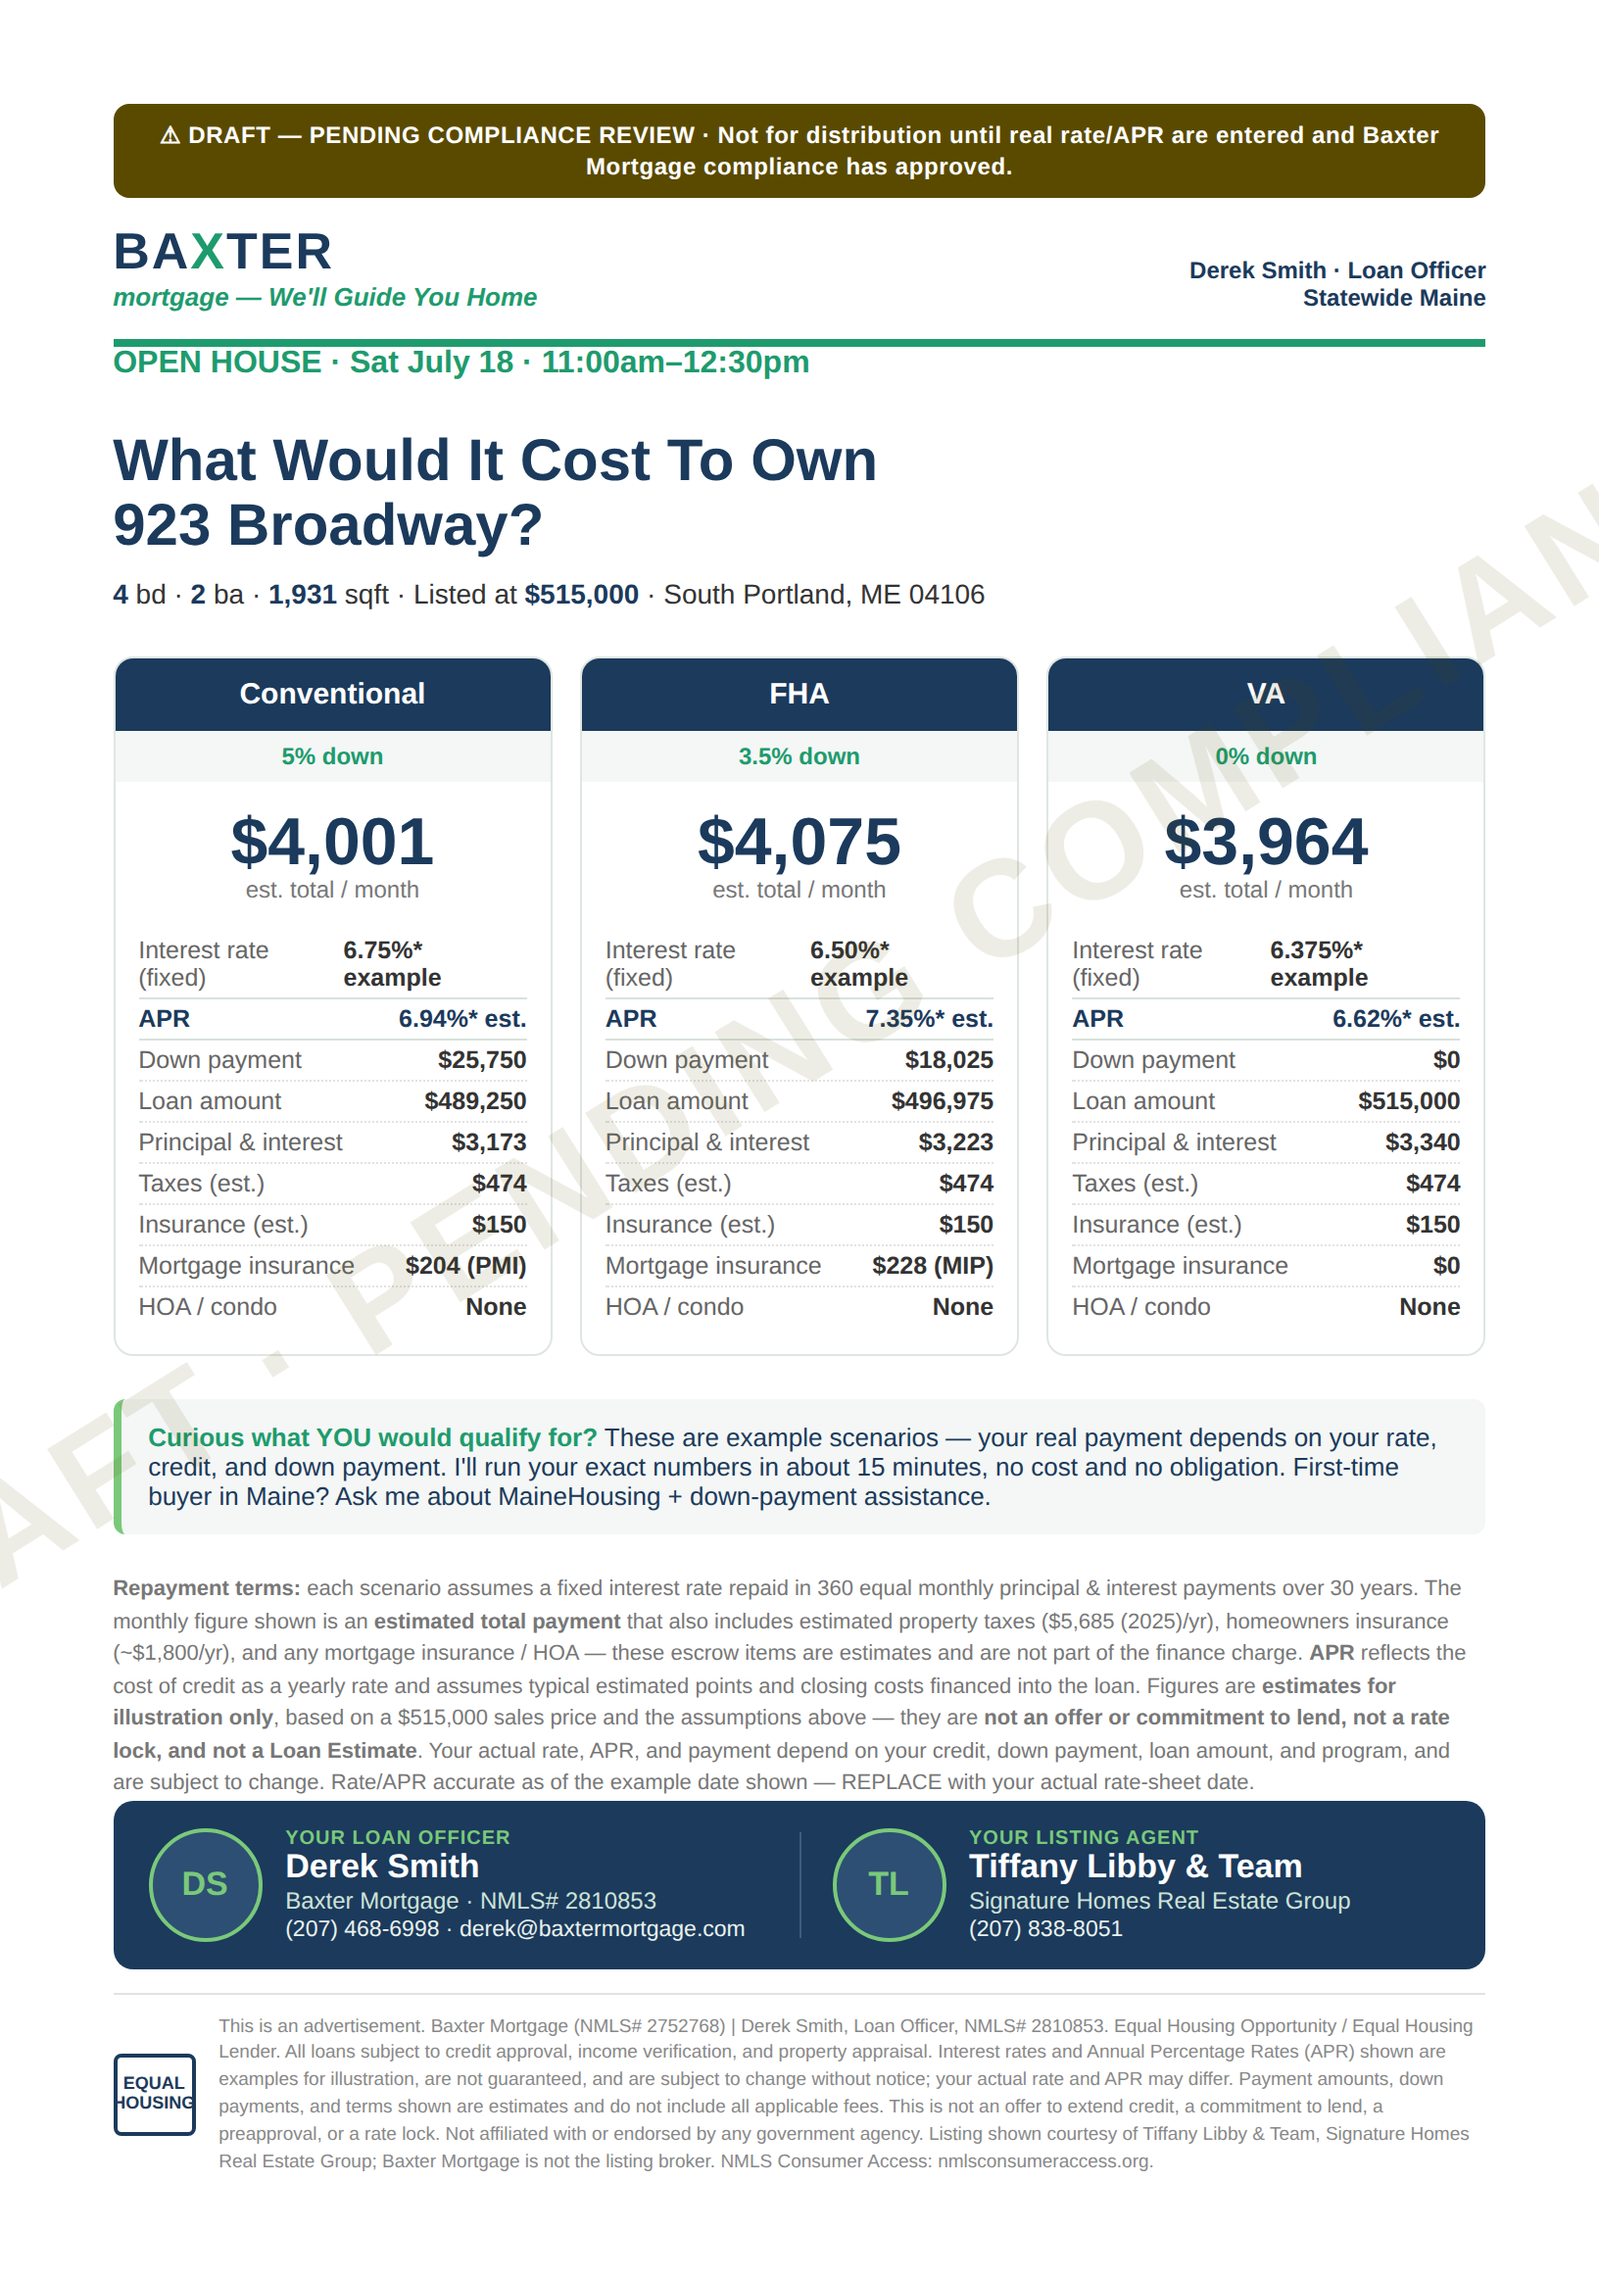
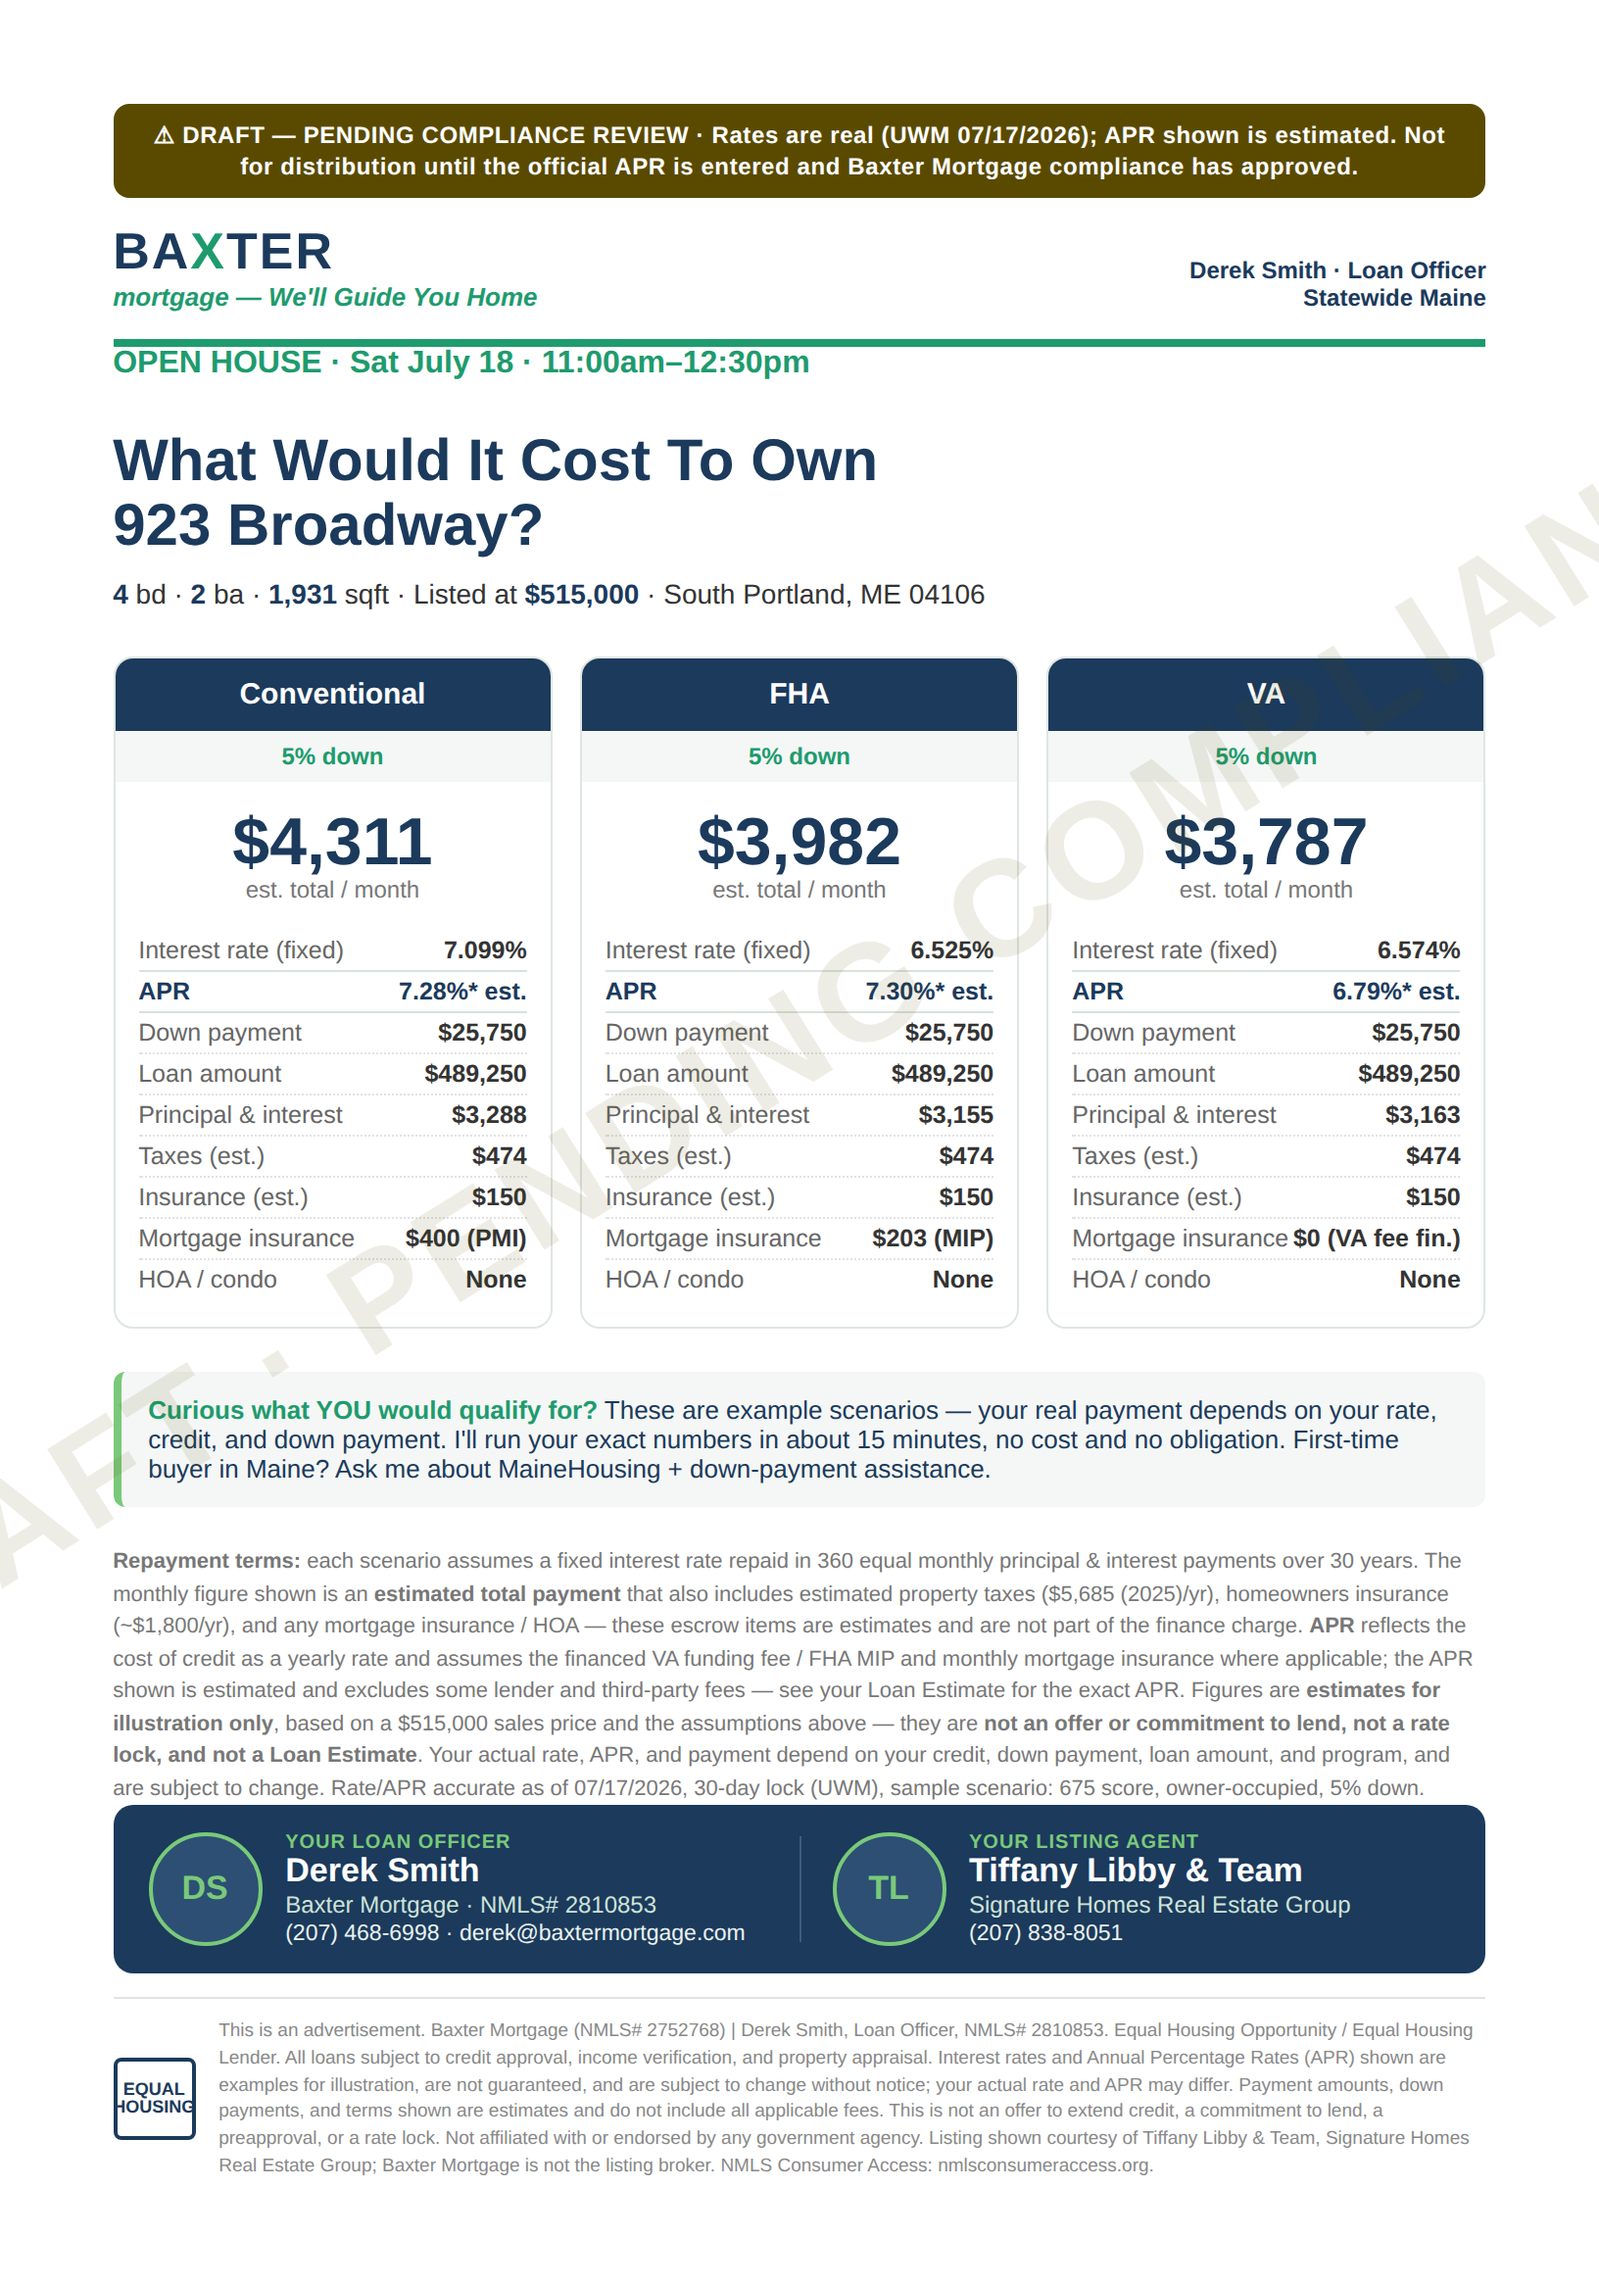
Update 923 Broadway payment flyer with real UWM rates (07/17/2026)
Replaced example rates with the actual UWM Easy Qualifier pricing (30-day lock,
89,250 loan / 5% down, 675 score): VA 6.574%, FHA 6.525%, Conventional
7.099%, with real P&I + MI; taxes + insurance added for the total monthly.
APR still shown as an estimate, so the DRAFT/compliance gate stays on until the
official APR (from the Loan Estimate) is entered and compliance approves.

Claude-Session: https://claude.ai/code/session_01NeTePcG8Z61QQmMSpMTEpt

diff --git a/lead-generation/output/923-broadway-04106-payment-flyer.html b/lead-generation/output/923-broadway-04106-payment-flyer.html
@@ -80,7 +80,7 @@
   .rows .apr .v{color:var(--navy);font-weight:800}
   .rows .apr .k{color:var(--navy);font-weight:700}
   /* Compliance gate: DRAFT banner + watermark stay until compliance approves.
-     Claude blanks <div class="draftbar">⚠ DRAFT — PENDING COMPLIANCE REVIEW · Not for distribution until real rate/APR are entered and Baxter Mortgage compliance has approved.</div> and <div class="watermark"><span>Draft · Pending Compliance</span></div> only after a real
+     Claude blanks <div class="draftbar">⚠ DRAFT — PENDING COMPLIANCE REVIEW · Rates are real (UWM 07/17/2026); APR shown is estimated. Not for distribution until the official APR is entered and Baxter Mortgage compliance has approved.</div> and <div class="watermark"><span>Draft · Pending Compliance</span></div> only after a real
      rate/APR is entered AND Baxter compliance has signed off. */
   .draftbar{background:#5a4a00;color:#fff;font-size:12px;font-weight:700;
     text-align:center;padding:8px 12px;border-radius:8px;margin-bottom:12px;
@@ -95,7 +95,7 @@
 <body>
 <div class="watermark"><span>Draft · Pending Compliance</span></div>
 <div class="page">
-  <div class="draftbar">⚠ DRAFT — PENDING COMPLIANCE REVIEW · Not for distribution until real rate/APR are entered and Baxter Mortgage compliance has approved.</div>
+  <div class="draftbar">⚠ DRAFT — PENDING COMPLIANCE REVIEW · Rates are real (UWM 07/17/2026); APR shown is estimated. Not for distribution until the official APR is entered and Baxter Mortgage compliance has approved.</div>
   <header>
     <div class="brand">BA<span class="x">X</span>TER<small>mortgage — We'll Guide You Home</small></div>
     <div class="tagline">Derek Smith · Loan Officer<br>Statewide Maine</div>
@@ -113,50 +113,50 @@
     <div class="card">
       <h2>Conventional</h2>
       <div class="down">5% down</div>
-      <div class="hero"><div class="amt">$4,001</div><div class="per">est. total / month</div></div>
+      <div class="hero"><div class="amt">$4,311</div><div class="per">est. total / month</div></div>
       <div class="rows">
-        <div class="rate"><span class="k">Interest rate (fixed)</span><span class="v">6.75%* example</span></div>
-        <div class="apr"><span class="k">APR</span><span class="v">6.94%* est.</span></div>
+        <div class="rate"><span class="k">Interest rate (fixed)</span><span class="v">7.099%</span></div>
+        <div class="apr"><span class="k">APR</span><span class="v">7.28%* est.</span></div>
         <div><span class="k">Down payment</span><span class="v">$25,750</span></div>
         <div><span class="k">Loan amount</span><span class="v">$489,250</span></div>
-        <div><span class="k">Principal & interest</span><span class="v">$3,173</span></div>
+        <div><span class="k">Principal & interest</span><span class="v">$3,288</span></div>
         <div><span class="k">Taxes (est.)</span><span class="v">$474</span></div>
         <div><span class="k">Insurance (est.)</span><span class="v">$150</span></div>
-        <div><span class="k">Mortgage insurance</span><span class="v">$204 (PMI)</span></div>
+        <div><span class="k">Mortgage insurance</span><span class="v">$400 (PMI)</span></div>
         <div><span class="k">HOA / condo</span><span class="v">None</span></div>
       </div>
     </div>
     <!-- SCENARIO 2 -->
     <div class="card">
       <h2>FHA</h2>
-      <div class="down">3.5% down</div>
-      <div class="hero"><div class="amt">$4,075</div><div class="per">est. total / month</div></div>
+      <div class="down">5% down</div>
+      <div class="hero"><div class="amt">$3,982</div><div class="per">est. total / month</div></div>
       <div class="rows">
-        <div class="rate"><span class="k">Interest rate (fixed)</span><span class="v">6.50%* example</span></div>
-        <div class="apr"><span class="k">APR</span><span class="v">7.35%* est.</span></div>
-        <div><span class="k">Down payment</span><span class="v">$18,025</span></div>
-        <div><span class="k">Loan amount</span><span class="v">$496,975</span></div>
-        <div><span class="k">Principal & interest</span><span class="v">$3,223</span></div>
+        <div class="rate"><span class="k">Interest rate (fixed)</span><span class="v">6.525%</span></div>
+        <div class="apr"><span class="k">APR</span><span class="v">7.30%* est.</span></div>
+        <div><span class="k">Down payment</span><span class="v">$25,750</span></div>
+        <div><span class="k">Loan amount</span><span class="v">$489,250</span></div>
+        <div><span class="k">Principal & interest</span><span class="v">$3,155</span></div>
         <div><span class="k">Taxes (est.)</span><span class="v">$474</span></div>
         <div><span class="k">Insurance (est.)</span><span class="v">$150</span></div>
-        <div><span class="k">Mortgage insurance</span><span class="v">$228 (MIP)</span></div>
+        <div><span class="k">Mortgage insurance</span><span class="v">$203 (MIP)</span></div>
         <div><span class="k">HOA / condo</span><span class="v">None</span></div>
       </div>
     </div>
     <!-- SCENARIO 3 -->
     <div class="card">
       <h2>VA</h2>
-      <div class="down">0% down</div>
-      <div class="hero"><div class="amt">$3,964</div><div class="per">est. total / month</div></div>
+      <div class="down">5% down</div>
+      <div class="hero"><div class="amt">$3,787</div><div class="per">est. total / month</div></div>
       <div class="rows">
-        <div class="rate"><span class="k">Interest rate (fixed)</span><span class="v">6.375%* example</span></div>
-        <div class="apr"><span class="k">APR</span><span class="v">6.62%* est.</span></div>
-        <div><span class="k">Down payment</span><span class="v">$0</span></div>
-        <div><span class="k">Loan amount</span><span class="v">$515,000</span></div>
-        <div><span class="k">Principal & interest</span><span class="v">$3,340</span></div>
+        <div class="rate"><span class="k">Interest rate (fixed)</span><span class="v">6.574%</span></div>
+        <div class="apr"><span class="k">APR</span><span class="v">6.79%* est.</span></div>
+        <div><span class="k">Down payment</span><span class="v">$25,750</span></div>
+        <div><span class="k">Loan amount</span><span class="v">$489,250</span></div>
+        <div><span class="k">Principal & interest</span><span class="v">$3,163</span></div>
         <div><span class="k">Taxes (est.)</span><span class="v">$474</span></div>
         <div><span class="k">Insurance (est.)</span><span class="v">$150</span></div>
-        <div><span class="k">Mortgage insurance</span><span class="v">$0</span></div>
+        <div><span class="k">Mortgage insurance</span><span class="v">$0 (VA fee fin.)</span></div>
         <div><span class="k">HOA / condo</span><span class="v">None</span></div>
       </div>
     </div>
@@ -177,12 +177,12 @@
     homeowners insurance (~$1,800/yr), and any mortgage insurance / HOA —
     these escrow items are estimates and are not part of the finance charge.
     <b>APR</b> reflects the cost of credit as a yearly rate and assumes
-    typical estimated points and closing costs financed into the loan. Figures are <b>estimates for illustration only</b>,
+    the financed VA funding fee / FHA MIP and monthly mortgage insurance where applicable; the APR shown is estimated and excludes some lender and third-party fees — see your Loan Estimate for the exact APR. Figures are <b>estimates for illustration only</b>,
     based on a $515,000 sales price and the assumptions above — they are
     <b>not an offer or commitment to lend, not a rate lock, and not a Loan
     Estimate</b>. Your actual rate, APR, and payment depend on your credit,
     down payment, loan amount, and program, and are subject to change. Rate/APR
-    accurate as of the example date shown — REPLACE with your actual rate-sheet date.
+    accurate as of 07/17/2026, 30-day lock (UWM), sample scenario: 675 score, owner-occupied, 5% down.
   </div>
 
   <div class="cobrand">
